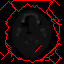
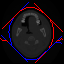
Example output

diff --git a/src/sc3d.c b/src/sc3d.c
@@ -105,7 +105,7 @@ static void sc3d(char *sourceFile, char *resultFile, int verbose)
 		}
 
 		int *newImageVector;
-		newImageVector = seamCarve(edgeImage, imageWidth, imageHeight, imageDepth, 0, 0, 3, 0, 0);
+		newImageVector = seamCarve(edgeImage, imageWidth, imageHeight, imageDepth, 6, 0, 51, 7, 1);
 
 	// }
 
